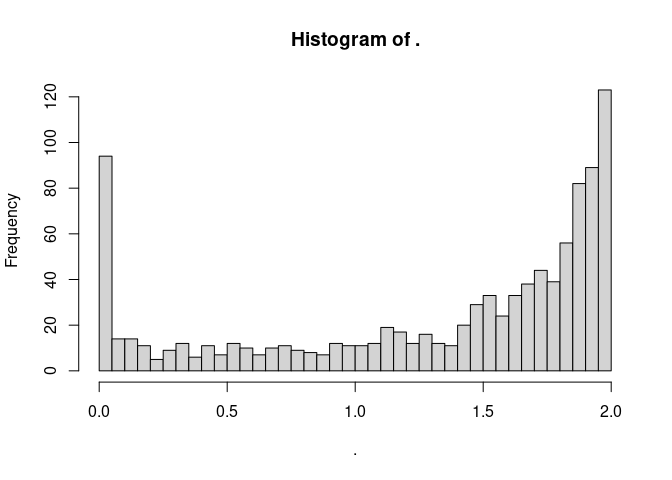
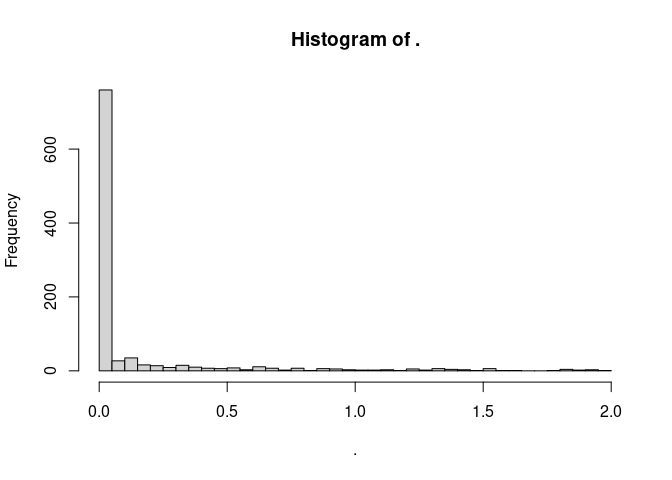
add lehman exp transformations

diff --git a/README.md b/README.md
@@ -73,7 +73,7 @@ s_exp
 #> function(u, ...){
 #>   -log(1-u)
 #> }
-#> <bytecode: 0x55e2ecba53f0>
+#> <bytecode: 0x6383ef0d6b30>
 #> <environment: namespace:gilchrist>
 ```
 
@@ -177,11 +177,11 @@ distribution is a Q-transformed exponential distribution. The
 transformation function is the the exponent $T(x)=x^k$.
 
 $$Q(u)=\lambda[-\ln(1-u)]^{1/k}$$ Again, to remember that the power
-should be reciprocated, let’s call it “ik”.
+should be reciprocated, which comes by default.
 
 ``` r
 qf_weibull <- s_exp %>% 
-  qtr_power("k", .invert = TRUE) %>% 
+  qtr_lexp1("k") %>% 
   qff_scale("lambda")
 qf_weibull(p_grd, lambda=2, k=4)
 #>  [1] 1.001651 1.289134 1.475014 1.625579 1.760265 1.888997 2.019427 2.160678
@@ -323,7 +323,7 @@ exponential.
 
 ``` r
 qweibull1 <- s_exp %>% 
-  qtr_power("k", .invert = TRUE) %>% 
+  qtr_lexp1("k") %>% 
   qff_scale("lambda")
 qweibull1(p_grd, lambda=2, k=3) %>% plot(p_grd,., type="l")
 ```
@@ -343,10 +343,10 @@ $$
 qkumar1 <- s_unif %>%
   qff_reflect() %>%
   qtr_scaleby(-1) %>%
-  qtr_power("b", .invert = TRUE) %>%
+  qtr_lexp1("b") %>%
   qtr_scaleby(-1) %>%
   qtr_shiftby(1) %>%
-  qtr_power("a", .invert = TRUE)
+  qtr_lexp1("a")
 
 all.equal(
  extraDistr::qkumar(p_grd, 4,5),
@@ -373,9 +373,9 @@ $$
 
 ``` r
 qchen <- s_exp %>% 
-  qff_scale("lambda", .invert = TRUE) %>% 
+  qff_scale("lambda") %>% 
   qtr_fun(log1p) %>% 
-  qtr_power("beta", .invert = TRUE)
+  qtr_lexp1("beta")
 ```
 
 ### Shift/scale/power by a constant
@@ -395,7 +395,7 @@ The authors apply this p-transformation to Weibuill distribution
 
 ``` r
 qf_KMweibull <- s_exp %>% 
-  qtr_power("k", .invert = TRUE) %>% 
+  qtr_lexp1("k") %>% 
   qff_scale("lambda") %>% 
   ptr_KM()
 
@@ -428,7 +428,7 @@ We could transform another semi-bounded distribution, like Pareto
 # for positive alpha
 qupareto <- s_unif %>%
   qff_reciprocate() %>%
-  qtr_power("alpha", .invert = TRUE) %>%
+  qtr_lexp1("alpha") %>%
   qtr_epsilon("beta")
   
 qs <- qupareto(p_grd, 3, 0.1)
@@ -464,8 +464,8 @@ Modi-transformed exponentiated exponential distribution
 
 ``` r
 qmodiexpexp <- s_exp %>%
-  qff_scale("lambda", .invert = TRUE) %>%
-  ptr_power("delta", .invert = TRUE) %>%
+  qff_scale("lambda") %>%
+  ptr_lexp1("delta") %>%
   ptr_modi()
   
 
@@ -475,8 +475,8 @@ qmodiexpexp1 <- function(u, lambda, alpha, beta, delta){
 }
 
 qmodiexpexp(p_grd, lambda=3, alpha=2, beta=0.1, delta=5)
-#>  [1] 0.2336856 0.3191756 0.3854007 0.4479244 0.5126411 0.5842906 0.6690102
-#>  [8] 0.7777162 0.9365660 1.2520741
+#>  [1]  2.103170  2.872580  3.468606  4.031320  4.613770  5.258616  6.021092
+#>  [8]  6.999446  8.429094 11.268667
 qmodiexpexp1(p_grd, lambda=3, alpha=2, beta=0.1, delta=5)
 #>  [1] 0.2336856 0.3191756 0.3854007 0.4479244 0.5126411 0.5842906 0.6690102
 #>  [8] 0.7777162 0.9365660 1.2520741
@@ -495,10 +495,10 @@ qmuhammad <- s_unif %>%
   qff_reciprocate() %>% 
   qff_reflect() %>% 
   qtr_shiftby(1) %>% 
-  qff_scale("beta",.invert = TRUE) %>% 
+  qff_scale("beta") %>% 
   qtr_fun(exp) %>% 
   qff_scale("theta") %>% 
-  ptr_power("alpha", .invert = TRUE)
+  ptr_lexp1("alpha")
 
 qmuhammad(runif(1e3), theta=2, beta=7, alpha=0.7) %>% hist(50)
 ```
@@ -514,7 +514,7 @@ $$
 
 ``` r
 qfrechet <- s_exp %>%
-  qtr_power("alpha", .invert = TRUE) %>%
+  qtr_lexp1("alpha") %>%
   qff_reciprocate() %>%
   qff_decorate("m", "s")
 
